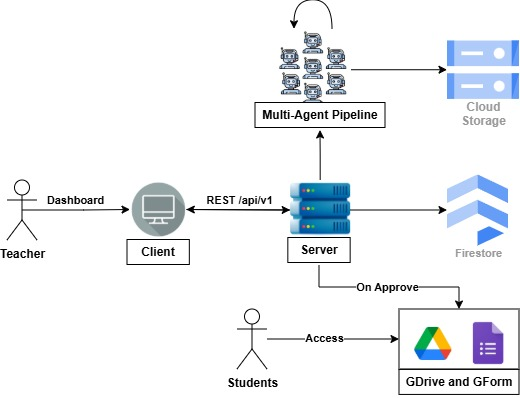
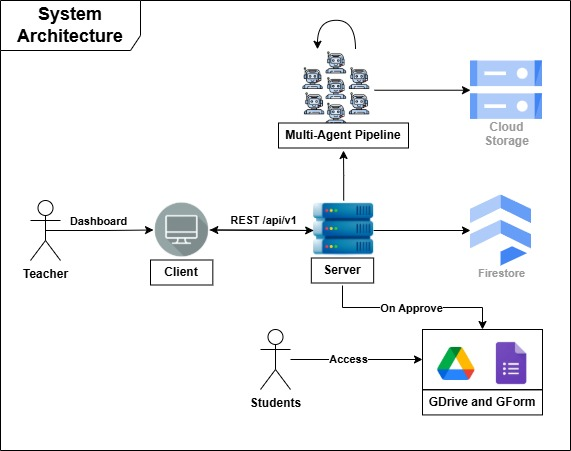
feat: update readme assets

diff --git a/README.md b/README.md
@@ -31,6 +31,12 @@ PhysicsAnimator reframes each question as a short video animation of the physica
 
 ![Generation Pipeline](assets/flowchart-pipeline.jpg)
 
+## Multi-Agent Architecture
+
+The generation pipeline runs as a `SequentialAgent` composed of two Google ADK `LlmAgent`s — **PhysicsManimAgent** (writes and renders ManimCE code, `thinking: high`) and **ValidatorAgent** (reviews the rendered video against 5 criteria including the anti-cheat constraint, `thinking: default`). On `VERDICT == FAIL` the validator's feedback is written back into session state and PhysicsManimAgent retries; on `VERDICT == PASS` the job transitions to `awaiting_review` where the teacher takes over.
+
+![Multi-Agent Architecture](assets/multiagent%20architecture.jpg)
+
 ---
 
 ## Screenshots / Demo
@@ -53,7 +59,7 @@ PhysicsAnimator reframes each question as a short video animation of the physica
 
 - **Frontend:** React 19, React Router 7, TypeScript 6, Vite 8, Tailwind CSS 3, Radix UI, Lucide icons.
 - **Backend:** Python 3.11+, FastAPI, Pydantic v2, Uvicorn.
-- **AI / Generation:** Google Gemini 2.0 Flash (via `google-genai`), Google ADK (Agent Development Kit), Manim CE 0.19.
+- **AI / Generation:** Google Gemma-4-31b-it (via `google-genai`), Google ADK (Agent Development Kit), Manim CE 0.19.
 - **Cloud / Storage:** Firestore, Google Cloud Storage, Google Forms API, Google Drive API, Cloud Run.
 - **Tooling:** Docker, Firebase Hosting, ffmpeg.
 

diff --git a/DEPLOYMENT.md b/DEPLOYMENT.md
@@ -16,8 +16,6 @@ PhysicsAnimator deploys in two pieces: the FastAPI backend runs as a container o
 8. [Step 6 — Create Secret Manager secrets](#step-6--create-secret-manager-secrets)
 9. [Step 7 — Deploy the Cloud Run service](#step-7--deploy-the-cloud-run-service)
 10. [Step 8 — Deploy the frontend to Firebase Hosting](#step-8--deploy-the-frontend-to-firebase-hosting)
-11. [Post-deploy verification](#post-deploy-verification)
-12. [Troubleshooting](#troubleshooting)
 
 ---
 
